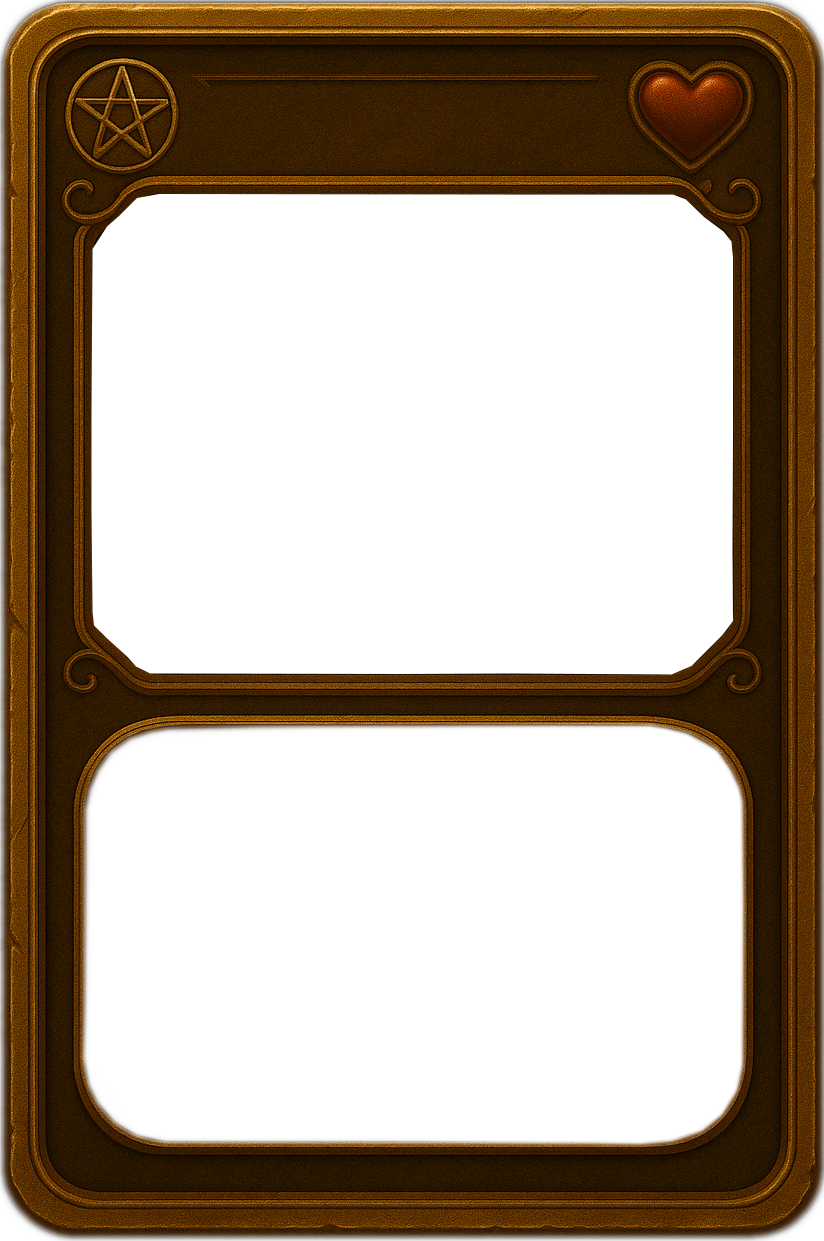
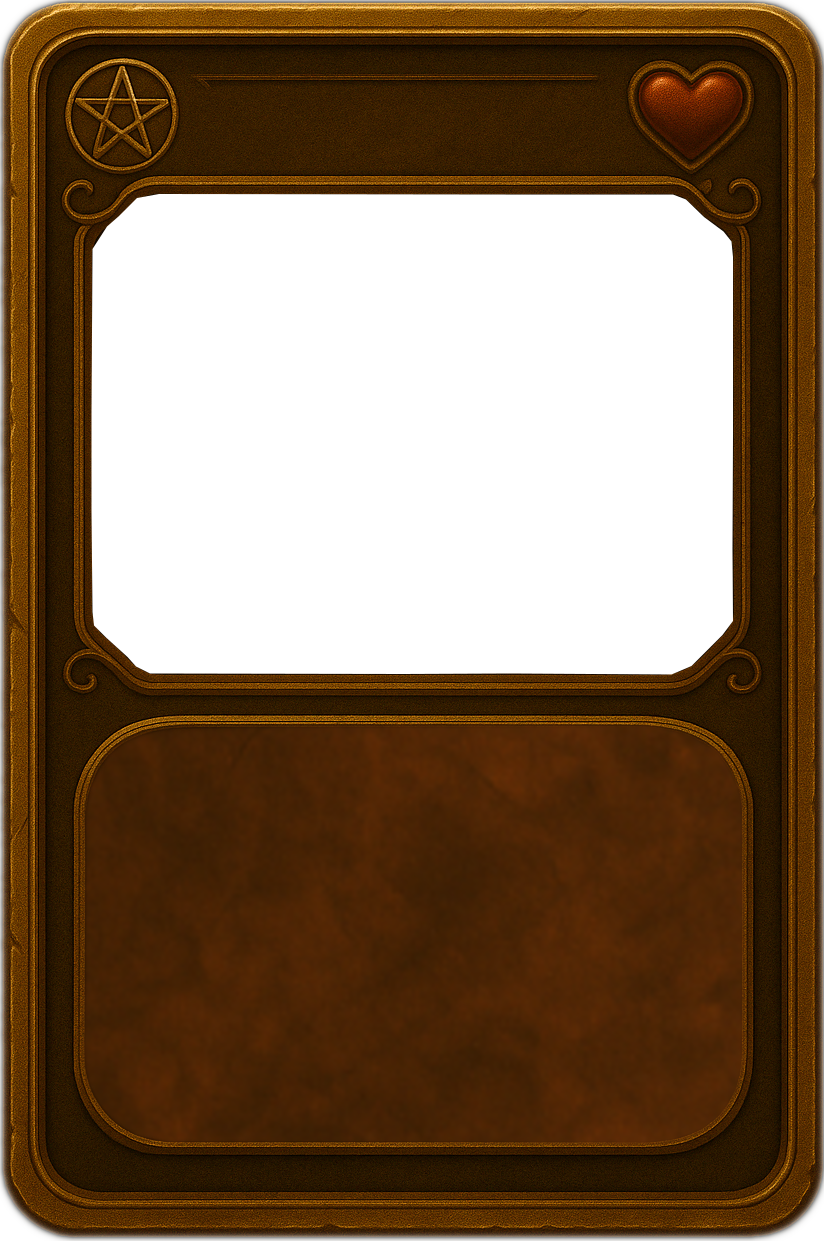
add testure effect

Changed region(s): [[0.091, 0.5818, 0.9102, 0.9492]]

diff --git a/script.js b/script.js
@@ -12,7 +12,7 @@ const exampleCardData = {
   "flavorText": "",
   "createdAt": "2025-04-25T09:39:27.200Z",
   "userId": "anonymous",
-  "imageUrl": "https://oaidalleapiprodscus.blob.core.windows.net/private/org-QuqsmHA0HxVOA0zGYCY47dot/user-lh81xnMjRtHKWy8nEkMpDsod/img-YOu5GG5oUeao7Wo8kBOZsCUF.png?st=2025-04-25T10%3A03%3A34Z&se=2025-04-25T12%3A03%3A34Z&sp=r&sv=2024-08-04&sr=b&rscd=inline&rsct=image/png&skoid=475fd488-6c59-44a5-9aa9-31c4db451bea&sktid=a48cca56-e6da-484e-a814-9c849652bcb3&skt=2025-04-24T21%3A47%3A44Z&ske=2025-04-25T21%3A47%3A44Z&sks=b&skv=2024-08-04&sig=YeXxFO51nwHVBDTeiUWcRm2cmlDLbYbRYHWjjFWwleo%3D"
+  "imageUrl": "https://oaidalleapiprodscus.blob.core.windows.net/private/org-QuqsmHA0HxVOA0zGYCY47dot/user-lh81xnMjRtHKWy8nEkMpDsod/img-fqY0alHvY31ZopbfOS5Gw8Zv.png?st=2025-04-25T21%3A11%3A49Z&se=2025-04-25T23%3A11%3A49Z&sp=r&sv=2024-08-04&sr=b&rscd=inline&rsct=image/png&skoid=475fd488-6c59-44a5-9aa9-31c4db451bea&sktid=a48cca56-e6da-484e-a814-9c849652bcb3&skt=2025-04-25T11%3A15%3A38Z&ske=2025-04-26T11%3A15%3A38Z&sks=b&skv=2024-08-04&sig=jV8yo63BydVlHrQ4vac5w8Fs75KZtSyg%2Bk5pV5HYYic%3D"
 };
 
 document.addEventListener('DOMContentLoaded', () => {

diff --git a/index.html b/index.html
@@ -26,7 +26,7 @@
             <div id="result" class="result-container"></div>
         </div>
 
-        
+
         <div class="cards-container">
             <!-- Carte Recto avec cadre et effets holographiques -->
             <div class="card-frame" id="recto-card" style="display: none;">
